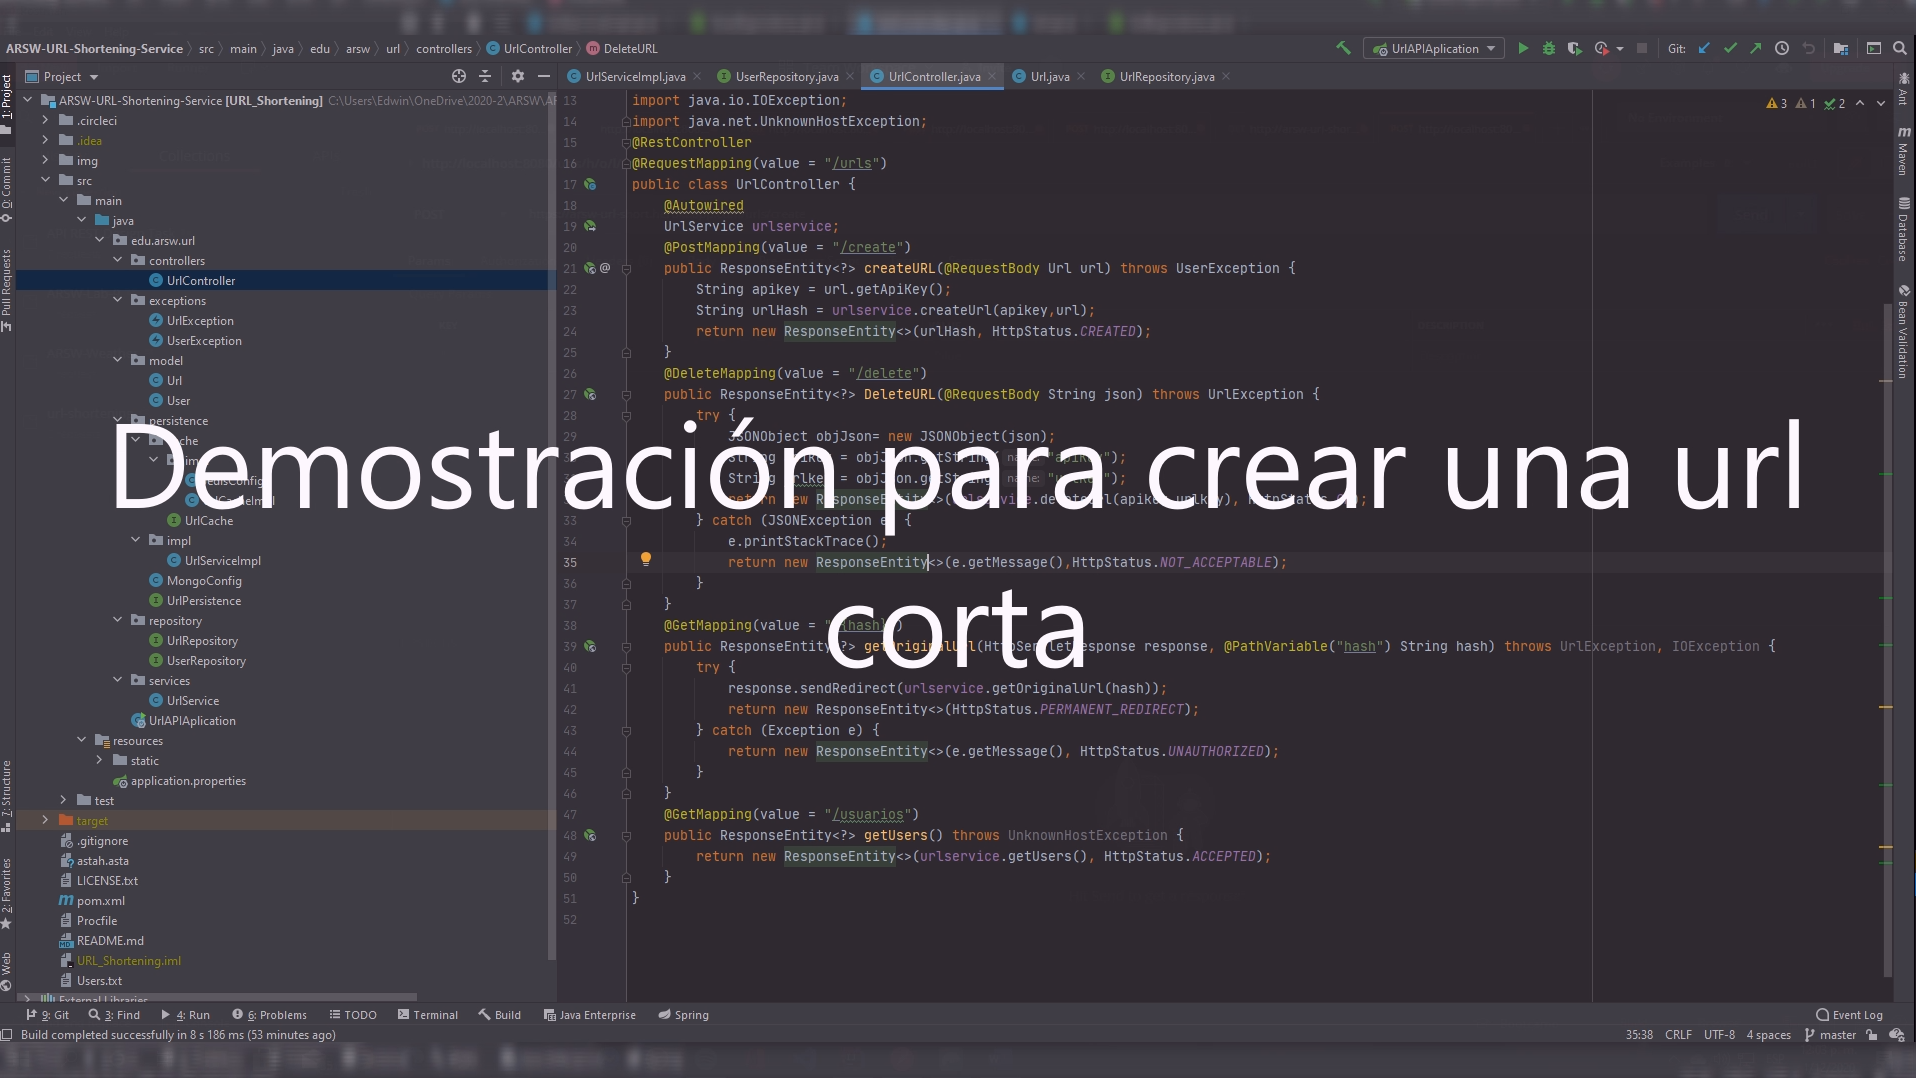
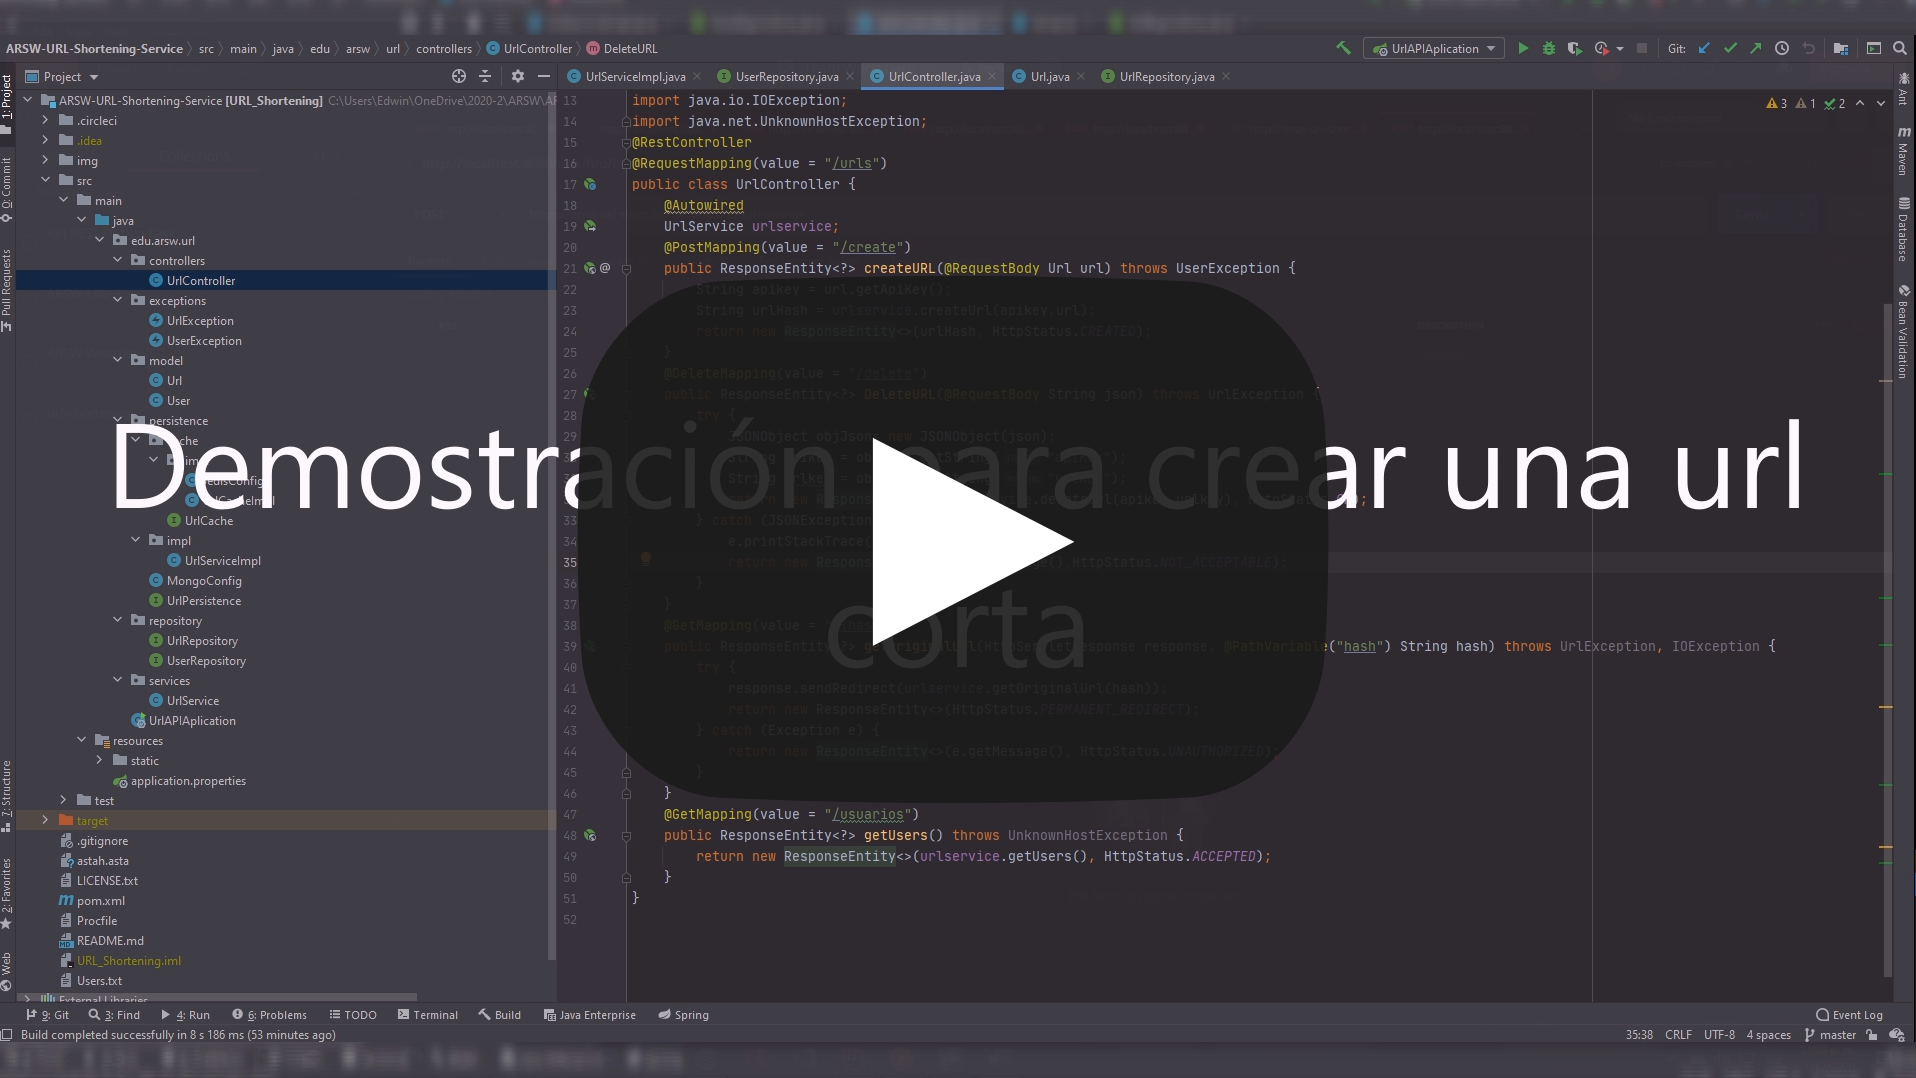
videos

Changed region(s): [[0.2771, 0.2449, 0.7082, 0.7041]]

diff --git a/README.md b/README.md
@@ -33,6 +33,9 @@ Los alias cortos de url se les llama como “enlaces cortos”, estos enlaces ah
  [![ScreenShot](img/cu.png)](https://youtu.be/LcMS_zIWgjE)
  
  * Como usuario quiero redirigirme a la página web que representa su url mediante una url más corta, para poder facilitar la usabilidad de un enlace mas largo.
+ 
+ [![ScreenShot](img/2.png)](https://youtu.be/PsIqI-Bxf6Q)
+ 
  * Como usuario quiero poner un tiempo de duración del alias de una url para poder usar esta solo el tiempo que la requiero.
  
 ### Requerimientos no funcionales
